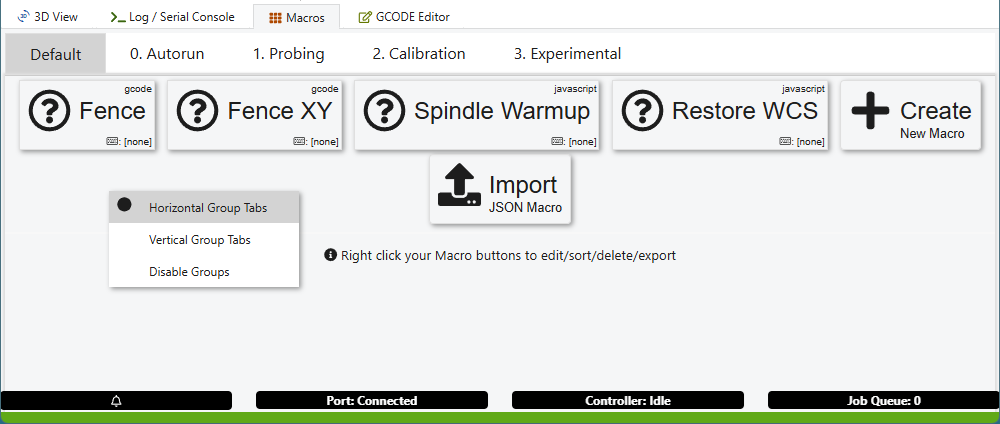
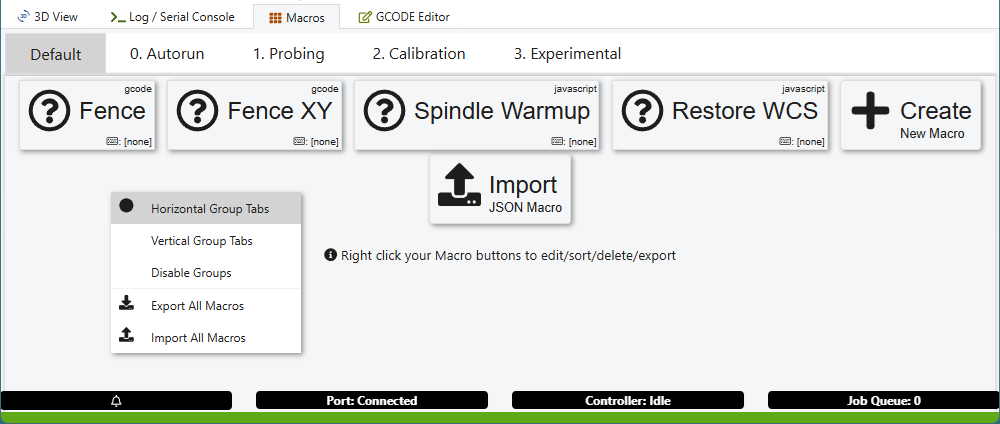
Improvements to MacroGroups

Changed region(s): [[0.093, 0.4599, 0.31, 0.8585], [0.124, 0.5519, 0.248, 0.5825]]

diff --git a/UsefulMacros/MacroGroups.js b/UsefulMacros/MacroGroups.js
@@ -45,6 +45,9 @@ function CleanupOldVersion()
 	{
 		document.getElementById('macros').removeEventListener('contextmenu', contextmenu);
 
+		var importAll = $('#macroBackgroundContextMenu').prop('ImportAll');
+		document.getElementById('macroImportAllFile').removeEventListener('change', importAll);
+
 		var observer = $('#macroBackgroundContextMenu').prop('Observer');
 		observer.disconnect();
 
@@ -280,35 +283,6 @@ function RebuildGroupUI()
 	RefreshButtonVisibility();
 }
 
-function MoveMacroButton(name, nameBefore)
-{
-	var buttonElement = document.getElementById(name);
-	var parentElement = buttonElement.parentElement;
-	var beforeElement;
-	if (nameBefore == "")
-	{
-		beforeElement = document.getElementById("macroBtn" + (buttonsarray.length - 1));
-		beforeElement = beforeElement.nextElementSibling;
-	}
-	else
-	{
-		beforeElement = document.getElementById(nameBefore);
-	}
-	parentElement.removeChild(buttonElement);
-	parentElement.insertBefore(buttonElement, beforeElement);
-	var element = parentElement.firstElementChild;
-	for (var i = 0; i < buttonsarray.length; i++)
-	{
-		element.id = "macroBtn" + i;
-		element.setAttribute("oncontextmenu", "macroContextMenu(" + i + ")");
-		if (element.getAttribute("onclick").startsWith("runJsMacro"))
-		{
-			element.setAttribute("onclick", "runJsMacro('" + i + "');");
-		}
-		element = element.nextElementSibling;
-	}
-}
-
 var g_bInOnMacrosChanged = false;
 
 function OnMacrosChanged()
@@ -337,7 +311,7 @@ function OnMacrosChanged()
 							var button = buttonsarray[i];
 							buttonsarray.splice(i, 1);
 							buttonsarray.splice(j, 0, button);
-							MoveMacroButton("macroBtn" + i, "macroBtn" + j);
+							populateMacroButtons();
 							break;
 						}
 					}
@@ -354,7 +328,7 @@ function OnMacrosChanged()
 							var button = buttonsarray[i+1];
 							buttonsarray.splice(i+1, 1);
 							buttonsarray.splice(j, 0, button);
-							MoveMacroButton("macroBtn" + (i+1), j < buttonsarray.length - 1 ? "macroBtn" + (j+1) : "");
+							populateMacroButtons();
 							break;
 						}
 					}
@@ -418,8 +392,6 @@ window.SetMacroTabsVisibility = function(vis)
 		verticalTabs.parentElement.hidden = true;
 	}
 
-//	$('#macroBackgroundContextMenu').css({display: 'none'});
-//	$('#macroTabContextMenu').css({display: 'none'});
 	RefreshButtonVisibility();
 }
 
@@ -528,6 +500,67 @@ function MacroBackgroundContextMenu(event)
 	}
 }
 
+window.ExportAll = function()
+{
+	var blob = new Blob([JSON.stringify(buttonsarray)], {type: "plain/text"});
+	var date = new Date();
+	invokeSaveAsDialog(blob, 'macro-backup-' + date.yyyymmdd() + '.json');
+}
+
+function FileReadError(message)
+{
+	if (message == undefined)
+	{
+		message = "Unspecified Error";
+	}
+	Metro.dialog.create({
+		title: "File read error",
+		clsDialog: "dark",
+		width: 600,
+		content: escapeHTML(message),
+		dataToTop: true,
+		actions: [{
+				caption: "OK",
+				cls: "js-dialog-close alert",
+				onclick: function() {}
+			}
+		]
+	});
+}
+
+function ImportAll(e)
+{
+	var files = e.target.files || e.dataTransfer.files;
+	var file = files[0];
+	document.getElementById('macroImportAllFile').value = '';
+	if (file)
+	{
+		var r = new FileReader();
+		r.readAsText(file);
+		r.onload = function()
+		{
+			var newButtons = undefined;
+			try
+			{
+				newButtons = JSON.parse(this.result);
+			}
+			catch (error)
+			{
+				FileReadError(error.message);
+			}
+			if (newButtons != undefined)
+			{
+				buttonsarray = newButtons;
+				populateMacroButtons();
+			}
+		}
+		r.onerror = function()
+		{
+			FileReadError(r.error.message);
+		}
+	}
+}
+
 $(document).ready(function()
 {
 	CleanupOldVersion();
@@ -540,10 +573,15 @@ $(document).ready(function()
 	<li id="macroHorGroups"  onclick="SetMacroTabsVisibility(1)"><a href="#"><i class="fa fa-circle icon"></i> Horizontal Group Tabs</a></li>
 	<li id="macroVertGroups" onclick="SetMacroTabsVisibility(2)"><a href="#"><i class="fa fa-circle icon"></i> Vertical Group Tabs</a></li>
 	<li id="macroHideGroups" onclick="SetMacroTabsVisibility(0)"><a href="#"><i class="fa fa-circle icon"></i> Disable Groups</a></li>
+	<li class="divider"></li>
+	<li onclick="ExportAll()"><a href="#"><i class="fas fa-download icon"></i> Export All Macros</a></li>
+	<li class="btn-file" title=""><a href="#"><input class="btn-file" id="macroImportAllFile" type="file" accept=".json" /><i class="fas fa-upload icon"></i> Import All Macros</a></li>
 </ul>
 `;
 	document.body.appendChild(CreateFromHtml(backgroundMenu));
 	macrosElement.addEventListener('contextmenu', MacroBackgroundContextMenu);
+
+	document.getElementById('macroImportAllFile').addEventListener('change', ImportAll, false);
 
 	// for some reason without this divider, closing the first menu opens the second
 	document.body.appendChild(CreateFromHtml(`<div id="macroMenuDivider"/>`));
@@ -610,6 +648,7 @@ $(document).ready(function()
 
 	// store some objects in props to be cleaned up later
 	$('#macroBackgroundContextMenu').prop('MacroBackgroundContextMenu', () => { return MacroBackgroundContextMenu; });
+	$('#macroBackgroundContextMenu').prop('ImportAll', () => { return ImportAll; });
 	$('#macroBackgroundContextMenu').prop('Observer', () => { return observer; });
 
 	setTimeout(function()

diff --git a/UsefulMacros/UsefulMacros.md b/UsefulMacros/UsefulMacros.md
@@ -38,7 +38,9 @@ Requires this version of OpenBuilds, which adds the "reload" functionality.
 Allows macro buttons to be organized in groups, which makes large number of macros more manageable.
 The group tabs can be horizontal or vertical.
 
-It works best when set to autorun on startup.
+Also has the ability to back up all macros into a single file.
+
+This macro works best when set to autorun on startup.
 
 **Horizontal group tabs**
 ![Screenshot](screenshots/macros_h.png)
